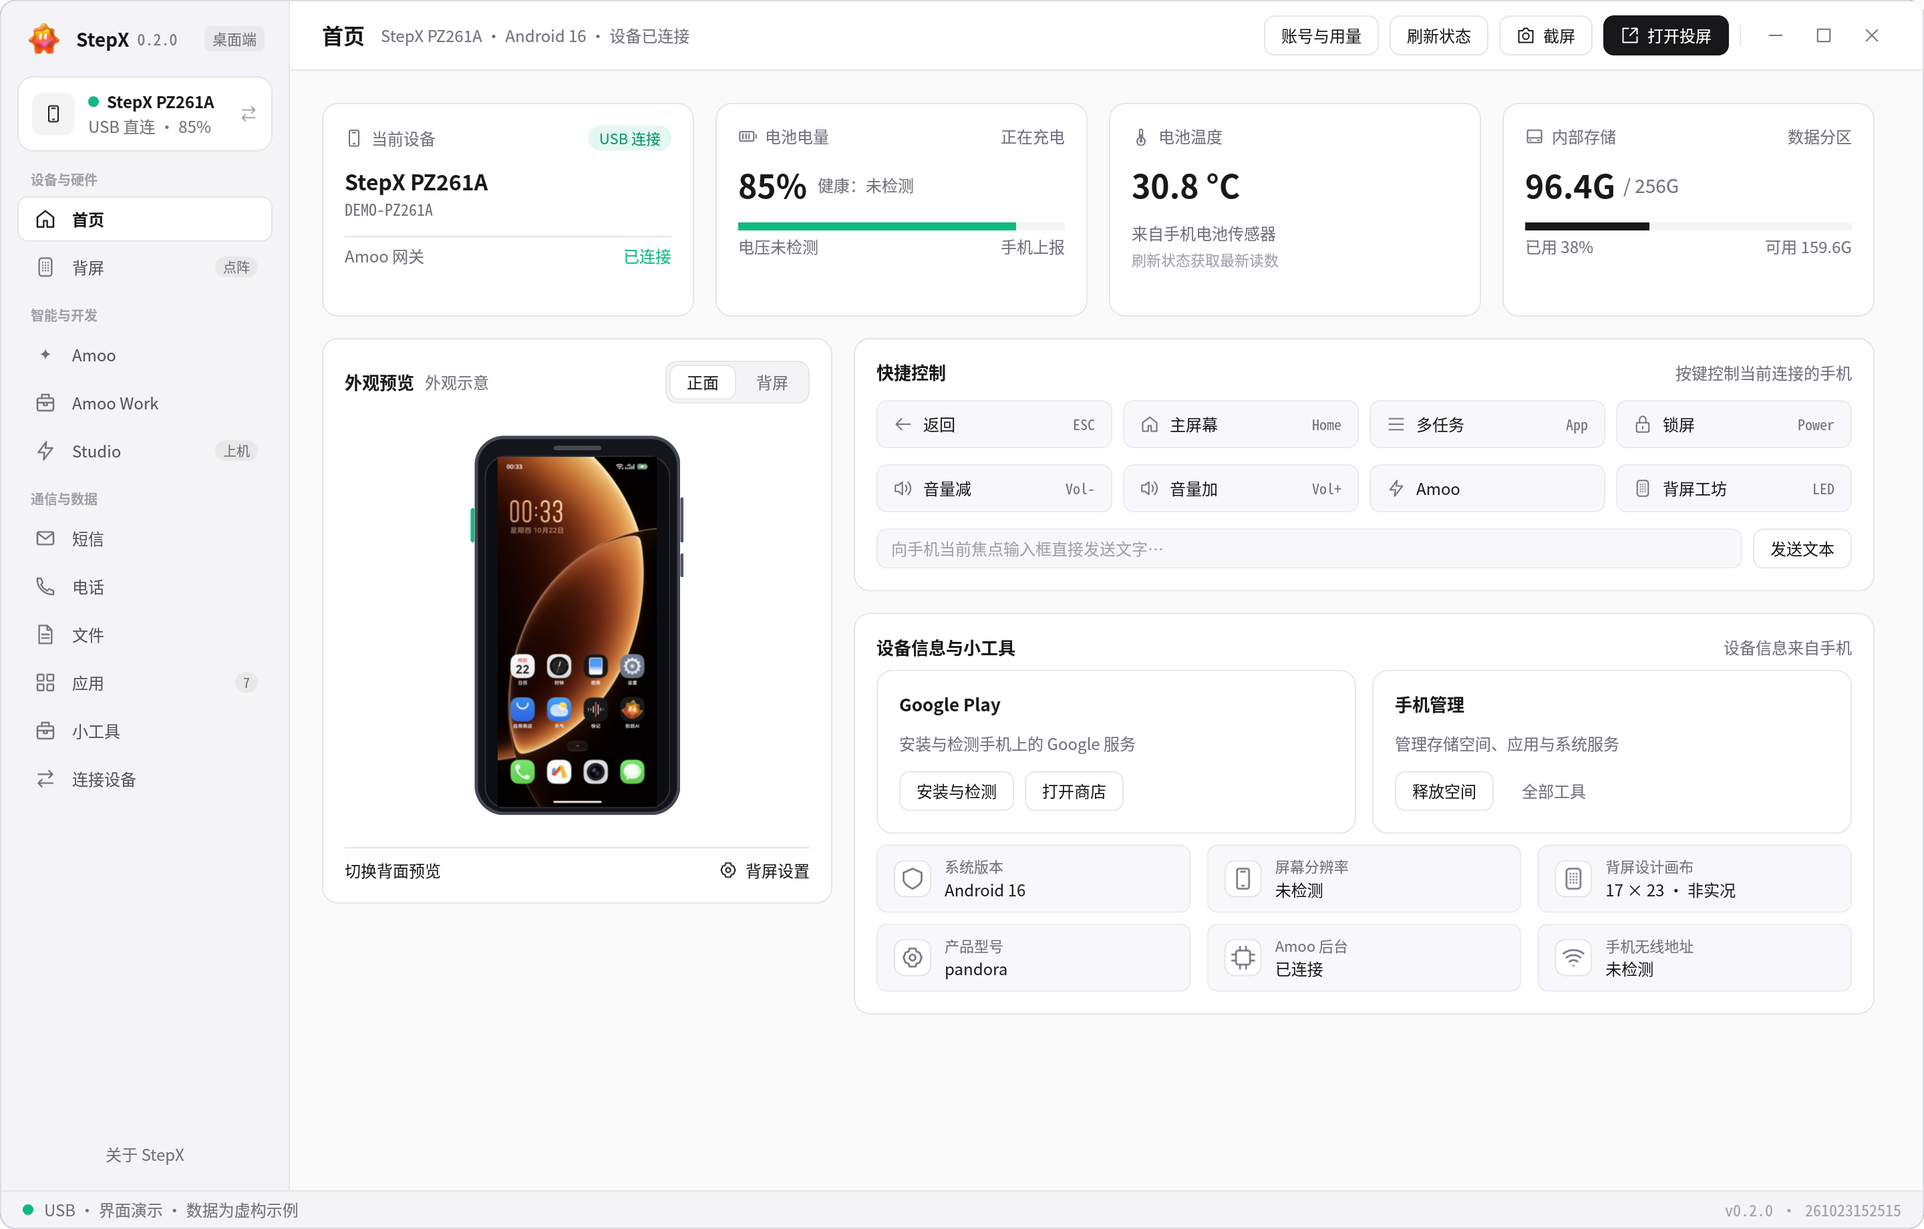
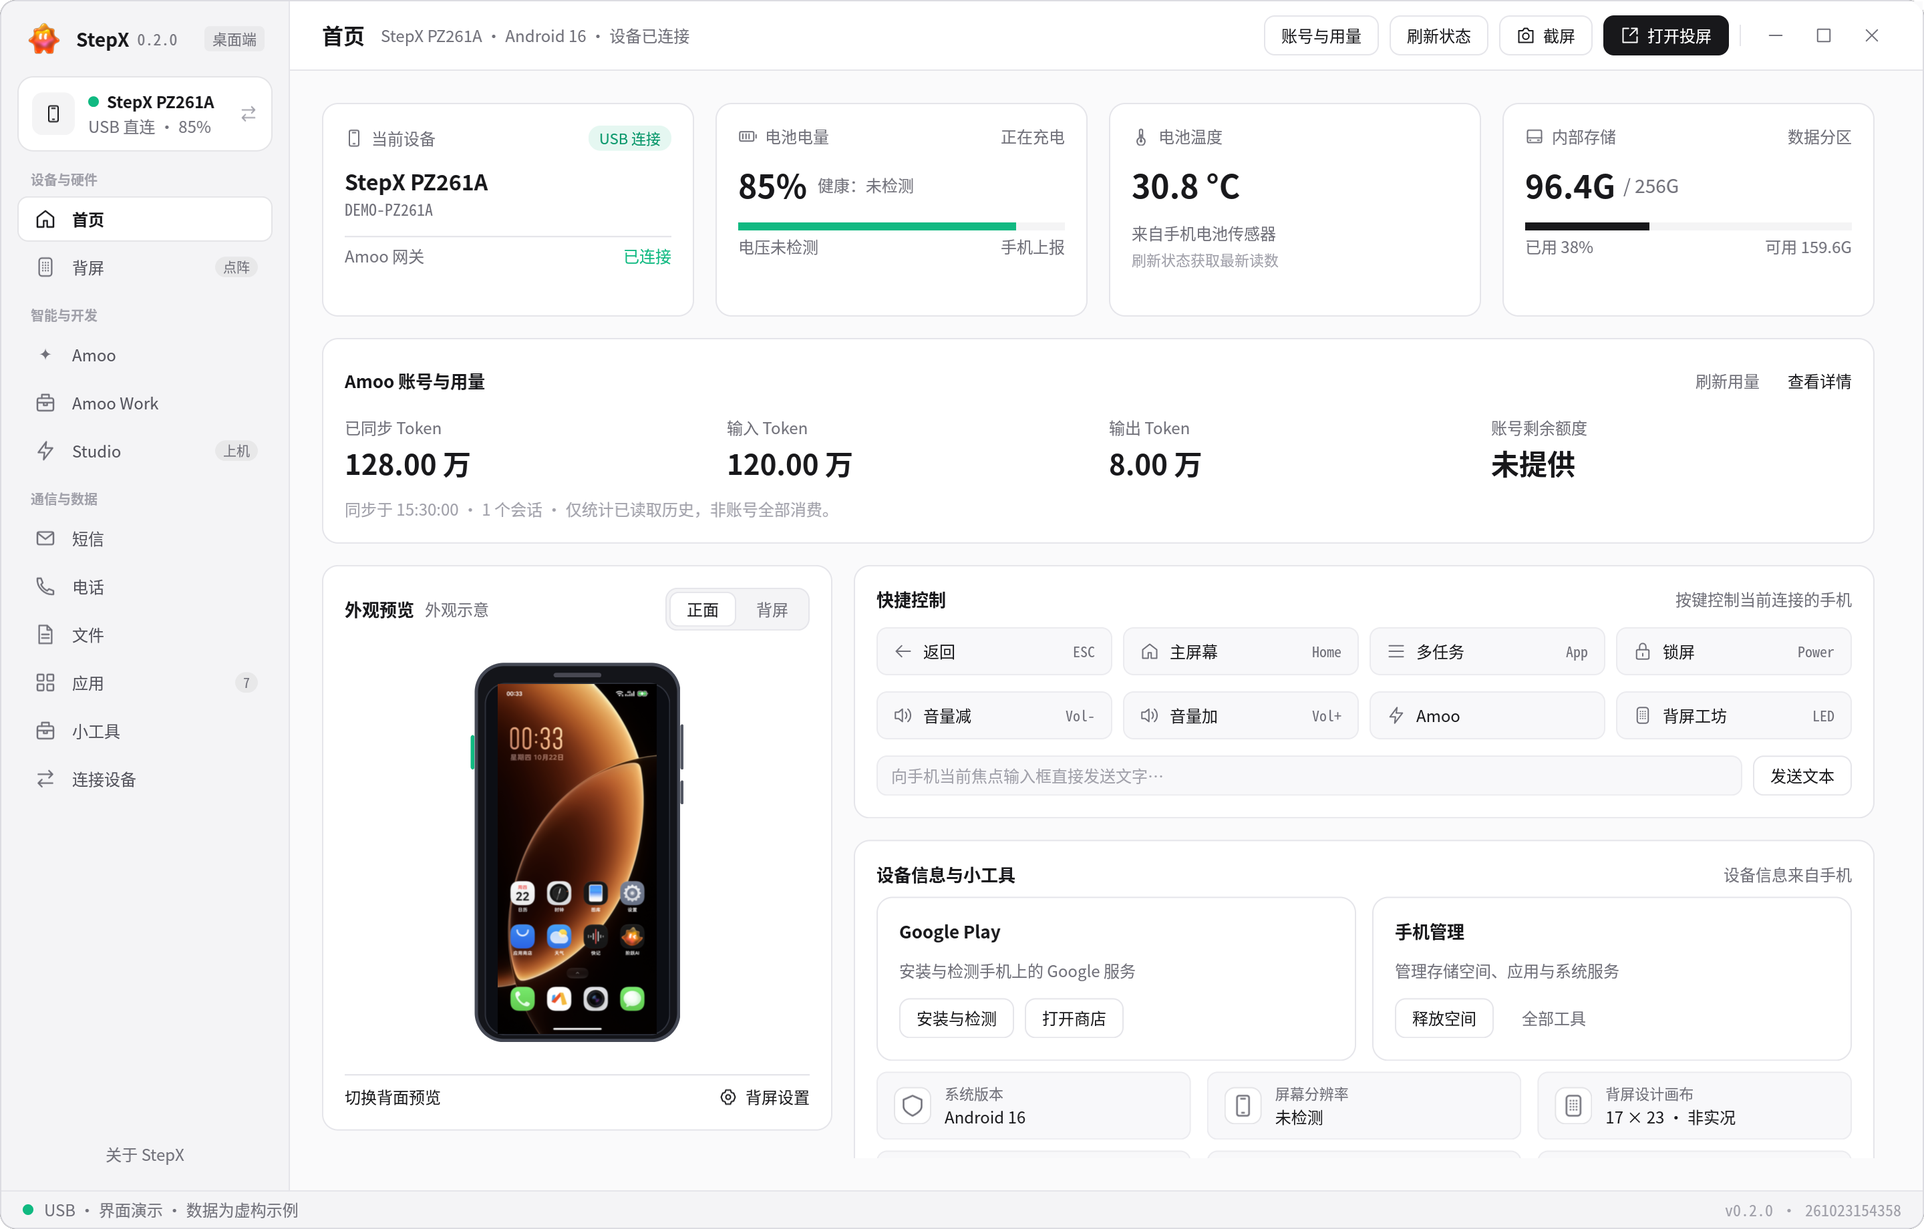
Show live Amoo token usage on home and emphasize phone storage compression

diff --git a/desktop/src/ui/amoo_ui_state.rs b/desktop/src/ui/amoo_ui_state.rs
@@ -99,6 +99,10 @@ pub(super) struct AmooUiState {
     measured: HashMap<String, (String, u64)>,
     pub last_updated: Option<String>,
     pub account_scope: Option<String>,
+    pub usage_loading: bool,
+    pub usage_error: Option<String>,
+    pub usage_attempted: bool,
+    usage_rx: Option<mpsc::Receiver<std::result::Result<amoo_usage::AccountUsageSnapshot, String>>>,
     coverage_partial: bool,
     sessions_read: usize,
 }
@@ -396,19 +400,7 @@ impl Companion {
                     _ => {}
                 }
             }
-            AmooUiAction::RefreshUsage => {
-                if self.busy {
-                    return;
-                }
-                self.with_device(
-                    "正在同步当前账号的消息用量，最多需要一分钟…",
-                    move |adb, device| {
-                        Ok(Outcome::AmooUi(AmooUiOutcome::Usage(
-                            amoo_usage::fetch_account_usage(adb, &device)?,
-                        )))
-                    },
-                );
-            }
+            AmooUiAction::RefreshUsage => self.start_account_usage_sync(),
         }
     }
 
@@ -997,6 +989,93 @@ impl Companion {
         ])
     }
 
+    pub(super) fn start_account_usage_sync(&mut self) {
+        if self.amoo_ui.usage_loading || self.demo_mode { return; }
+        let Some(device) = self.selected.clone() else { return; };
+        let (tx, rx) = mpsc::channel();
+        self.amoo_ui.usage_rx = Some(rx);
+        self.amoo_ui.usage_loading = true;
+        self.amoo_ui.usage_attempted = true;
+        self.amoo_ui.usage_error = None;
+        // Keep slow account-history reads off the interactive device job queue.
+        // Changing devices drops the receiver with AmooUiState; stale results cannot apply.
+        std::thread::spawn(move || {
+            let result = Adb::discover().and_then(|adb| amoo_usage::fetch_account_usage(&adb, &device))
+                .map_err(|error| format!("{error:#}"));
+            let _ = tx.send(result);
+        });
+    }
+
+    pub(super) fn poll_account_usage_sync(&mut self) -> bool {
+        let result = match self.amoo_ui.usage_rx.as_ref().map(|rx| rx.try_recv()) {
+            Some(Ok(result)) => result,
+            Some(Err(mpsc::TryRecvError::Disconnected)) => Err("用量同步已中断，请重试".into()),
+            _ => return false,
+        };
+        self.amoo_ui.usage_rx = None;
+        self.amoo_ui.usage_loading = false;
+        match result {
+            Ok(snapshot) => {
+                let status = self.status.clone();
+                self.apply_amoo_ui(AmooUiOutcome::Usage(snapshot));
+                if self.busy { self.status = status; }
+            }
+            Err(error) => self.amoo_ui.usage_error = Some(error),
+        }
+        true
+    }
+
+    #[cfg(feature = "ui-capture")]
+    pub(super) fn seed_demo_usage(&mut self) {
+        // Fictional screenshot-only values; never read from or written to an account cache.
+        self.amoo_ui.account_scope = Some("demo-usage".into());
+        self.amoo_ui.messages.insert("demo:work".into(), BTreeMap::from([("demo:reply".into(), UsageMetrics {
+            input_tokens: Some(1_200_000), output_tokens: Some(80_000), total_tokens: Some(1_280_000),
+            ..UsageMetrics::default()
+        })]));
+        self.amoo_ui.last_updated = Some("15:30:00".into());
+    }
+
+    pub(super) fn overview_usage_card(&self) -> El {
+        let p = self.p();
+        let usage = amoo_usage::aggregate(self.amoo_ui.messages.values().flat_map(|m| m.values()));
+        let value = |n: Option<u64>| match n {
+            Some(n) if n >= 100_000_000 => format!("{:.2} 亿", n as f64 / 100_000_000.),
+            Some(n) if n >= 10_000 => format!("{:.2} 万", n as f64 / 10_000.),
+            Some(n) => n.to_string(),
+            None => "—".into(),
+        };
+        let mut columns = Flex::row().with_main_axis_size(MainAxisSize::Max).with_spacing(S4);
+        for (label, number) in [("已同步 Token", value(usage.total_tokens)),
+            ("输入 Token", value(usage.input_tokens)), ("输出 Token", value(usage.output_tokens)),
+            ("账号剩余额度", "未提供".into())] {
+            columns = columns.with_child(Expanded::new(1., self.vstack(S1, vec![
+                self.line(label, CAPTION, p.text2), self.line_w(number, 21., p.text, facloud_ui::fonts::Weight::Semibold),
+            ])).finish());
+        }
+        let hint = if self.selected.is_none() {
+            "连接手机后自动同步 Amoo 账号用量。".to_string()
+        } else if self.amoo_ui.usage_loading {
+            "正在读取手机账号用量，你可以继续使用其他功能…".into()
+        } else if let Some(error) = &self.amoo_ui.usage_error {
+            format!("同步未完成：{error}")
+        } else if let Some(time) = &self.amoo_ui.last_updated {
+            format!("同步于 {time} · {} 个会话 · 仅统计已读取历史，非账号全部消费。", self.amoo_ui.messages.len())
+        } else {
+            "仅统计已同步消息；手机接口未返回账号总额度与剩余额度。".into()
+        };
+        self.panel(vec![
+            self.between(self.heading("Amoo 账号与用量"), self.hstack(S2, vec![
+                if self.amoo_ui.usage_loading { self.disabled_button("同步中…") }
+                else if self.selected.is_some() { self.button("ov-usage-refresh", "刷新用量", Action::AmooUi(AmooUiAction::RefreshUsage), Btn::Ghost) }
+                else { self.disabled_button("等待连接") },
+                self.link_action("ov-usage-detail", "查看详情", Action::Page(Page::Account)),
+            ])),
+            columns.finish(),
+            self.text(hint, CAPTION, if self.amoo_ui.usage_error.is_some() { p.warning } else { p.text3 }),
+        ])
+    }
+
     pub(super) fn account_usage_page(&self) -> El {
         let p = self.p();
         let aggregate = amoo_usage::aggregate(
@@ -1019,6 +1098,11 @@ impl Companion {
             self.panel(vec![self.heading("账号额度与账单"), self.text("手机服务尚未提供可核实的账号总额度、剩余额度与计费周期。已同步消息累计仅覆盖读取过的历史，不代表账号全部消费。", BODY, p.text2)]),
             self.panel(vec![self.heading("速度与上下文"), self.text("平均输出速度按服务返回的输出 Token 和本次任务实际响应时间计算，包含工具执行及等待时间。历史没有可靠耗时时显示 —。上下文显示服务返回的输入 Token；未返回的模型上限显示 —。", BODY, p.text2)]),
         ];
+        if self.amoo_ui.usage_loading {
+            rows.push(self.text("正在后台同步账号用量…", CAPTION, p.text2));
+        } else if let Some(error) = &self.amoo_ui.usage_error {
+            rows.push(self.text(format!("同步未完成：{error}"), CAPTION, p.warning));
+        }
         if self.amoo_ui.coverage_partial {
             rows.push(self.text(
                 "当前统计包含部分历史；部分较早消息或未返回用量的回复未计入。",

diff --git a/desktop/src/ui/mod.rs b/desktop/src/ui/mod.rs
@@ -1721,6 +1721,12 @@ impl Companion {
         if self.poll_amoo_gui() {
             ctx.notify();
         }
+        if !self.demo_mode && self.page == Page::Overview && self.selected.is_some()
+            && !self.busy && !self.amoo_ui.usage_attempted {
+            self.start_account_usage_sync();
+            ctx.notify();
+        }
+        if self.poll_account_usage_sync() { ctx.notify(); }
         if self.busy {
             self.loading_frame = (self.loading_frame + 1) % 4;
             ctx.notify();
@@ -2794,7 +2800,7 @@ impl View for Companion {
 
         let body = if self.initializing && self.busy {
             self.loading_page()
-        } else if self.page.needs_device() && self.selected.is_none() {
+        } else if self.page.needs_device() && self.selected.is_none() && self.page != Page::Overview {
             self.no_device()
         } else if matches!(self.page, Page::Tools | Page::Connect) {
             self.scrollable(self.scroll.clone(), self.page_content())

diff --git a/desktop/src/ui/pages/overview.rs b/desktop/src/ui/pages/overview.rs
@@ -108,7 +108,9 @@ impl Companion {
 
     pub(in super::super) fn overview_page(&self) -> El {
         let Some(device) = &self.selected else {
-            return self.no_device();
+            return self.pane_scroll(self.scroll.clone(), self.vstack(S4, vec![
+                self.overview_usage_card(), self.no_device(),
+            ]));
         };
         let p = self.p();
         let metrics = DeviceMetrics::from_summary(&self.summary);
@@ -691,6 +693,7 @@ impl Companion {
             .with_cross_axis_alignment(CrossAxisAlignment::Stretch)
             .with_spacing(S4)
             .with_child(top_metrics)
+            .with_child(self.overview_usage_card())
             .with_child(lower)
             .finish();
         self.pane_scroll(self.scroll.clone(), content)

diff --git a/desktop/src/ui/demo.rs b/desktop/src/ui/demo.rs
@@ -19,6 +19,7 @@ impl Companion {
                 product: "pandora".into(),
             })
         };
+        if self.selected.is_some() { self.seed_demo_usage(); }
         self.devices = vec![Transport {
             id: "DEMO-PZ261A".into(),
             state: "device".into(),

diff --git a/README.md b/README.md
@@ -1,28 +1,42 @@
 <div align="center">
 <img src="desktop/assets/amoo_desktop_icon.png" width="88" alt="StepX" />
 
-# StepX · 手机与电脑的工作台
+# StepX · STEPX Neo 手机的桌面伴侣
 
-**把手机里的 Amoo、文件与背屏，带到你的电脑。**
+**压缩并释放手机存储空间，在电脑上直接与 Amoo 对话，用手机的模型与 Token 权益完成工作。**
 
-Rust 原生桌面应用 · Linux / macOS / Windows · StepX伴侣 Android 服务
+面向阶跃星辰 STEPX Neo 手机 · 当前适配 PZ261A
+
+Linux / macOS / Windows · Rust 原生客户端 · 配套 StepX伴侣 Android 服务
 
 [下载安装](https://github.com/xydzf520/stepx/releases/latest) · [快速开始](docs/GETTING_STARTED.md) · [构建指南](docs/BUILDING.md) · [反馈问题](https://github.com/xydzf520/stepx/issues)
 
 </div>
 
-> 首个社区预览版。普通 Android 设备可使用部分连接、文件和应用管理能力；Amoo、背屏、系统服务与 OTA 能力依赖 StepX 手机和对应固件。项目与 StepX、Amoo、Google 无官方隶属关系。
+**这是给谁用的？** 已有 [STEPX Neo](https://www.stepx.com/) 手机，希望在电脑上使用 Amoo、处理工作资料、安装 Google Play，并管理手机空间的用户。本项目围绕 **PZ261A / Step AOS** 适配，是社区开发的第三方桌面客户端。
 
-## 一眼看懂 StepX
+**核心特点**
 
-![StepX 首页：设备状态、电池温度、存储与快捷控制](docs/images/overview.png)
+- **压缩与释放手机空间**：在手机本地压缩适合压缩的文档、清理缓存和重复文件，查看处理结果，并按需还原压缩文件。
+- **电脑直接聊 Amoo**：沿用手机已有的 Amoo 账号，继续手机会话，发送文字、文件和图片，查看定时任务。
+- **把 Amoo 变成工作台**：通过 Amoo Work 调用手机模型，结合电脑上的资料和文件执行能力，写文档、做 PPT、分析表格、生成图片并预览成果。
+- **用上手机已有的百亿 Token 权益**：对已开通购机 Token 权益的账号，Amoo 与 Work 沿用手机服务和原有计量规则；权益额度、有效期和可用模型以实际手机账号为准。桌面客户端本身不额外赠送额度。
+- **安装 Google Play**：在适配固件上安装 Google Play 及必要组件，配合安装前检查、兼容性诊断和 StepX伴侣安装流程。
+- **让背屏更好玩**：图片转像素、动画、太空人、亮度与时长控制，以及三敲启动、倾斜操作的小游戏。
+
+Amoo / Work 的手机模型任务使用手机账号服务；独立 GUI Agent 可选外部模型，需要另行配置。Google 安装需准备匹配的安装包，公开发行版不分发 Google APK。
+
+## 桌面首页：手机状态与账号用量
+
+![StepX 首页：设备状态、电池温度、存储与 Token 用量](docs/images/overview.png)
 
 *界面截图由应用自身渲染，使用虚构演示数据；不包含真实账号或手机记录。*
 
 | 模块 | 你能做什么 |
 | --- | --- |
 | **Amoo** | 在电脑与手机 Amoo 对话，同步会话与附件，查看定时任务、模型和可获取的用量信息。 |
-| **Amoo Work** | 以任务为中心处理文件、表格、文档和演示文稿，预览交付物，结合手机模型与桌面文件执行能力。 |
+| **Amoo Work** | 复用手机模型和账号权益，在电脑处理文档、表格、PPT 和图片，查看过程并预览成果。 |
+| **空间压缩与清理** | 在手机上压缩文档、识别重复文件和清理缓存，减少手机存储占用。 |
 | **背屏创作** | 管理点阵图案、图片转像素、动画、亮度与时间；使用太空人、趣味光效和倾斜小游戏。 |
 | **小工具箱** | 集中处理空间释放、手机 OTA 检查、投屏、APK 安装、Google 服务与 StepX伴侣安装引导。 |
 | **设备管理** | 查看电池、温度与存储，管理短信、电话、文件和已安装应用。 |
@@ -54,6 +68,17 @@ Amoo 使用手机现有账号与官方服务。账号权限、模型路由、付
 
 桌面协作涉及本地文件操作，请选择专门的工作目录。输出结果需要按任务用途复核。
 
+## 空间压缩：让手机腾出更多空间
+
+从「小工具 → 释放空间」扫描手机存储，查看可压缩文档、重复文件和可清理项目，再按需要选择处理。
+
+- **文件留在手机**：对适合压缩的文档在手机上生成压缩文件，校验成功且确实节省空间后才替换原文件。
+- **需要时可还原**：保留压缩文件的还原路径，处理前后展示结果；没有压缩收益时保留原文件。
+- **清理与压缩分开选择**：重复文件、缓存和压缩操作分别展示，用户核对后执行。
+- **按机型检测能力**：系统级透明压缩取决于内核和数据分区支持，检测结果不代表所有应用数据都能压缩。
+
+压缩收益取决于文件内容。照片、视频及已压缩文件通常空间有限；本功能当前主要面向可压缩文档与可清理项目。
+
 ## 小工具：常用能力，一个入口
 
 ![小工具：OTA、空间释放、应用安装、伴侣和投屏](docs/images/tools.png)
@@ -65,7 +90,7 @@ Amoo 使用手机现有账号与官方服务。账号权限、模型路由、付
 | **手机投屏** | 基于 scrcpy 的手机画面与控制，官方桌面工具随发布包提供。 |
 | **APK 与应用** | 安装应用、读取应用信息，并提供导出和卸载等管理操作。 |
 | **StepX伴侣安装** | 安装配套 Android 应用，引导完成所需权限、后台服务与扫码配对。 |
-| **Google 服务** | 提供设备匹配的安装及兼容性诊断入口；不包含 Google APK，不保证 Play Protect / Play Integrity 认证。 |
+| **Google Play 安装** | 在适配固件上安装 Play 商店及必要 Google 组件，检查安装状态与兼容性。需准备匹配安装包；安装成功不等于通过设备认证。 |
 | **设备与系统服务** | 查看设备信息、权限与服务状态；高级操作受设备能力和授权限制。 |
 
 ## 背屏：让点阵动起来
@@ -108,6 +133,8 @@ cargo build --release --locked --manifest-path desktop/Cargo.toml
 UI 依赖已随源码放在 `vendor/`，无需另外的本地工程。系统依赖、Android 构建和打包见 [构建指南](docs/BUILDING.md)。欢迎提交可复现的问题、跨平台测试反馈和 Pull Request。
 
 ## 开源许可与边界
+
+本项目与 STEPX、Amoo、Google 无官方隶属关系。普通 Android 设备可尝试部分连接、文件和应用管理功能；Amoo、背屏、系统服务与 OTA 功能依赖 STEPX 手机和对应固件。
 
 项目源码按 **AGPL-3.0-only** 发布，第三方组件遵循各自许可，见 [LICENSE](LICENSE) 和 [第三方说明](THIRD_PARTY_NOTICES.md)。品牌名称、标志与原厂界面素材的权利归原权利人所有，不随源码许可授予商标权。
 

diff --git a/docs/RELEASE_NOTES.md b/docs/RELEASE_NOTES.md
@@ -1,15 +1,15 @@
-StepX 首个公开预览版：将手机 Amoo、Work 文件协作、背屏创作和常用设备工具带到电脑。
+StepX 首个公开预览版：为 STEPX Neo 手机（当前适配 PZ261A）打造的桌面伴侣。电脑直接与 Amoo 对话，复用手机模型与账号 Token 权益完成 Work 任务，压缩与释放手机空间，并提供 Google Play 安装和背屏创作。
 
 ### 重点功能
 
+- **压缩手机空间**：在手机本地压缩适合的文档，校验收益后替换原文件，支持还原，并集中处理重复文件与可清理项目。
 - **Amoo**：手机会话同步、格式化消息、附件与图片、定时任务和接口可用的 token 信息。
 - **Amoo Work**：围绕文件的工作区、文档/表格/PPT 输出、图片缓存和成果预览。
 - **背屏**：像素图案、动画、太空人、亮度时间控制和 StepX伴侣小游戏。
 - **小工具**：空间释放、手机 OTA 检查、投屏、APK 管理、Google 服务诊断与伴侣安装引导。
 - **新手引导**：首次启动弹窗说明开启开发者选项、USB 调试和电脑授权，支持跳过、重新查看及真实状态检测。
 - **连接与管理**：USB / 无线配对、文件互传、短信、电话、应用与真实设备状态。
-
-- **界面整理**：账号与用量入口移至首页，连接状态统一到底部，精简关于页；版本升级为 0.2.0，构建时间以 12 位数字显示。
+- **界面整理**：首页直接展示已同步的 Token 用量，支持后台刷新与详情，连接状态统一到底部，精简关于页；版本升级为 0.2.0，构建时间以 12 位数字显示。
 
 ### 下载与运行
 

diff --git a/CHANGELOG.md b/CHANGELOG.md
@@ -8,6 +8,7 @@
 - 集成背屏点阵创作、动画、亮度控制与伴侣小游戏。
 - 提供设备、短信、电话、文件、应用与小工具管理。
 - 新用户首次启动弹窗引导开启 ADB，保存跳过状态，并根据实际授权情况展示连接结果。
+- 首页展示已同步的输入、输出和总 Token，自动后台同步，未返回的账号余额明确标注。
 - 账号入口移至首页，统一连接状态栏，使用紧凑的 12 位构建标识。
 - 增加「关于 StepX」、联系信息、版权说明与复制微信入口。
 - 增加 Linux、macOS 双架构和 Windows 的原生 CI 打包。
